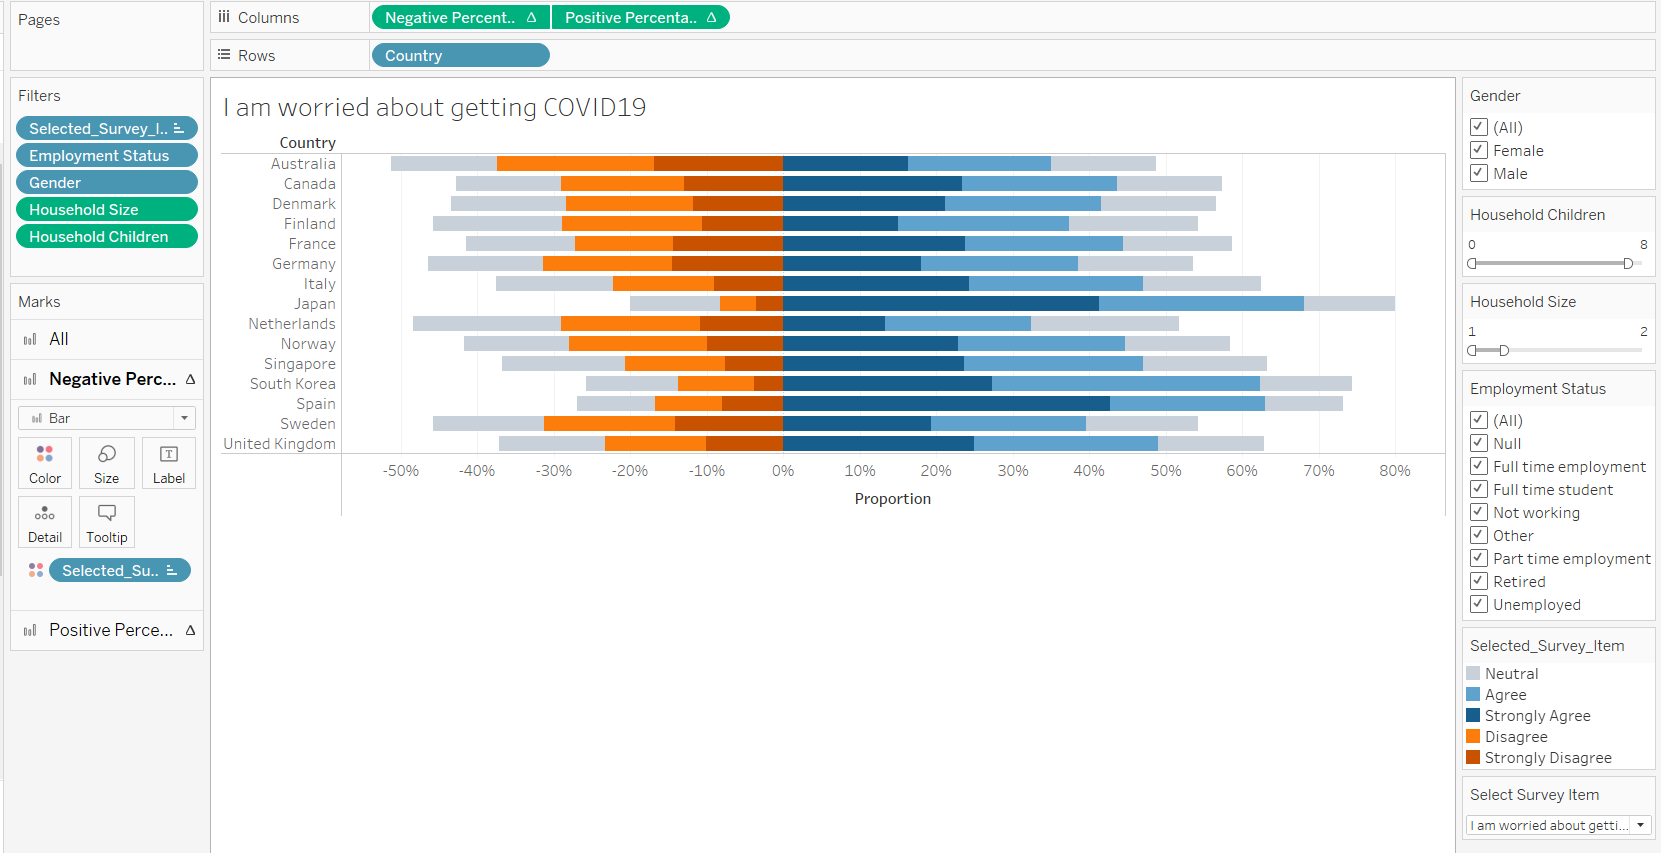
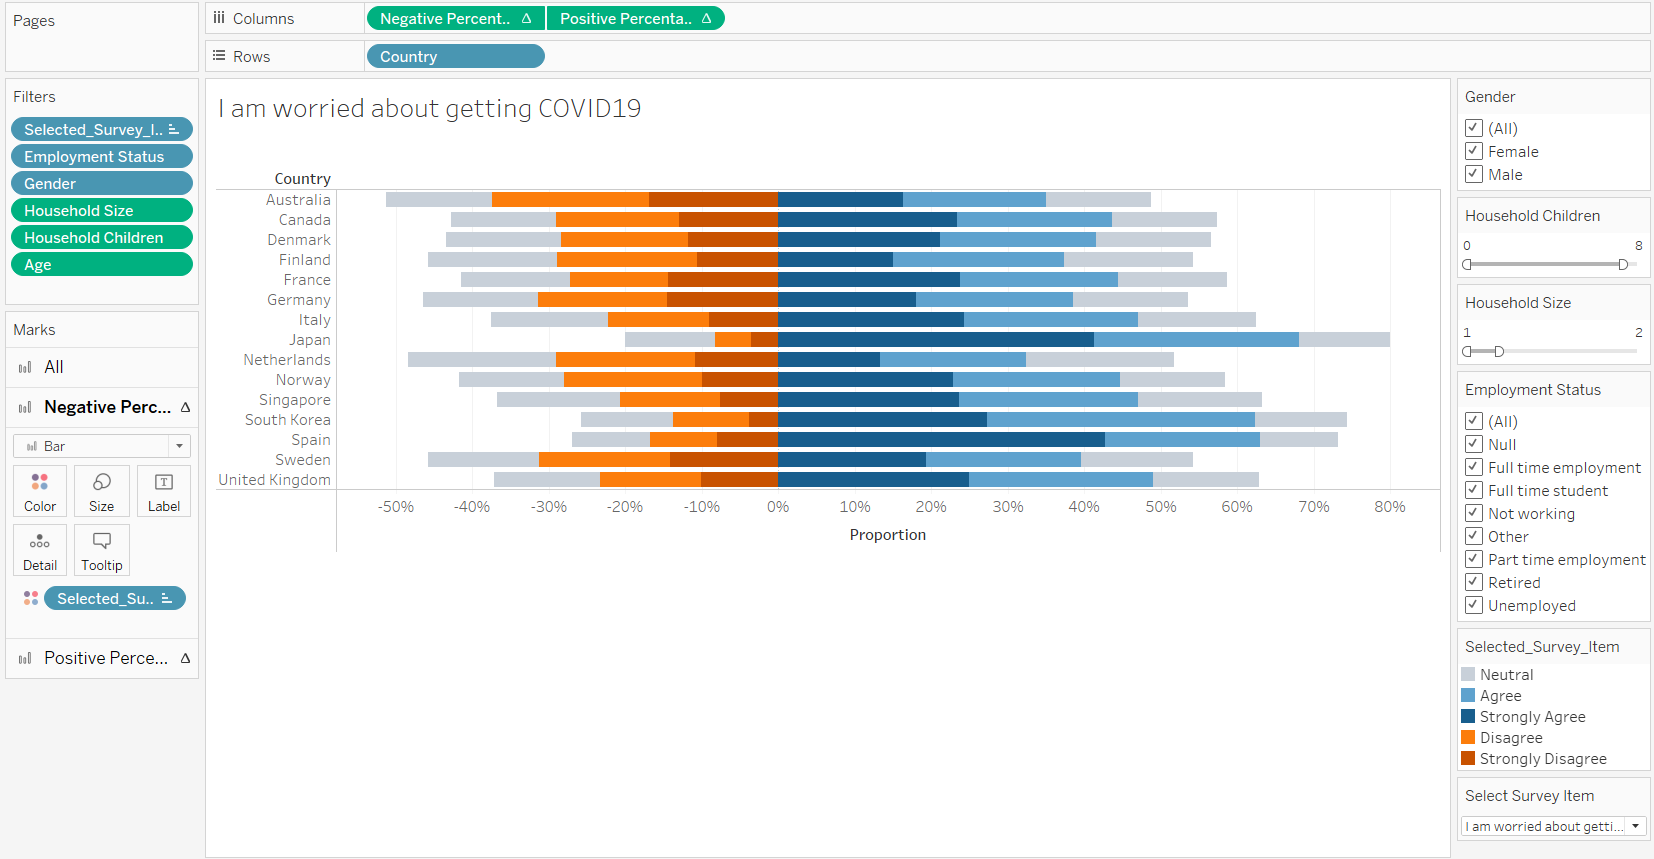
4.3. Dot Plot with Error Bars

Changed region(s): [[0.0, 0.0914, 1.0, 0.9754], [0.0925, 0.0, 1.0, 0.0914], [0.0, 0.0, 0.0617, 0.0305]]

diff --git a/_posts/2021-02-12-dataviz-makeover-2/dataviz-makeover-2.html b/_posts/2021-02-12-dataviz-makeover-2/dataviz-makeover-2.html
@@ -117,6 +117,7 @@ code span.wa { color: #5e5e5e; font-style: italic; } /* Warning */
   <meta name="citation_reference" content="citation_title=Seven different ways to display likert scale data;citation_publication_date=2020;citation_author=Alana Pirrone"/>
   <meta name="citation_reference" content="citation_title=Rethinking the divergent stacked bar chart - placing the stronger views in the center;citation_publication_date=2020;citation_author=Steve Wexler"/>
   <meta name="citation_reference" content="citation_title=5 tips on designing colorblind-friendly visualizations;citation_author=Jeffrey Shaffer"/>
+  <meta name="citation_reference" content="citation_title=Sorting by field is unavailable for data blended measures: Tableau software;citation_publisher=Tableau;citation_author= Tableau"/>
   <!--radix_placeholder_rmarkdown_metadata-->
   
   <script type="text/json" id="radix-rmarkdown-metadata">
@@ -125,7 +126,7 @@ code span.wa { color: #5e5e5e; font-style: italic; } /* Warning */
   <!--/radix_placeholder_rmarkdown_metadata-->
   
   <script type="text/json" id="radix-resource-manifest">
-  {"type":"character","attributes":{},"value":["biblio.bibtex","biblio.yaml","dataviz-makeover-2_files/anchor-4.2.2/anchor.min.js","dataviz-makeover-2_files/bowser-1.9.3/bowser.min.js","dataviz-makeover-2_files/distill-2.2.21/template.v2.js","dataviz-makeover-2_files/jquery-1.11.3/jquery.min.js","dataviz-makeover-2_files/popper-2.6.0/popper.min.js","dataviz-makeover-2_files/tippy-6.2.7/tippy-bundle.umd.min.js","dataviz-makeover-2_files/tippy-6.2.7/tippy-light-border.css","dataviz-makeover-2_files/tippy-6.2.7/tippy.css","dataviz-makeover-2_files/tippy-6.2.7/tippy.umd.min.js","dataviz-makeover-2_files/webcomponents-2.0.0/webcomponents.js","images/2. Original Visualisation.png","images/3. Alternative Visualisation Design.jpeg","images/4.1. Add New Union.png","images/4.1. Change Data Type.png","images/4.1. Connect to Data.png","images/4.1. Custom Split.png","images/4.1. Describe Field.png","images/4.1. Edit Aliases.png","images/4.1. Export Full Data.png","images/4.1. Go to Worksheet.png","images/4.1. Hide Unused Columns.png","images/4.1. Include all csv files.png","images/4.1. Remove table.png","images/4.1. View Data.png","images/4.2. Add Numeric Filter.png","images/4.2. Add String Filter.png","images/4.2. Compute Using Selected_Survey_Item.png","images/4.2. Conver to Measure.png","images/4.2. Convert to Dimension.png","images/4.2. Convert to Measure.png","images/4.2. Count Negative Formula.png","images/4.2. Create Parameter.png","images/4.2. Diverging Stacked Bar Chart.png","images/4.2. Dual Axis.png","images/4.2. Edit Axis Number Format.png","images/4.2. Edit Axis Title.png","images/4.2. Edit Colors.png","images/4.2. Edit Colour Legend.png","images/4.2. Edit Legend Alias.png","images/4.2. Edit Title.png","images/4.2. Edit Tooltip.png","images/4.2. Exclude Nulls.png","images/4.2. Format Tick Mark Labels.png","images/4.2. Format Tooltip Percentage.png","images/4.2. Gantt Percent Formula.png","images/4.2. Gantt Start Formula.png","images/4.2. Number of Records Formula.png","images/4.2. Percentage Formula.png","images/4.2. Reorder Colours.png","images/4.2. Rows and Columns Negative Positive.png","images/4.2. Rows and Columns.png","images/4.2. Select Colour for Selected Survey Item.png","images/4.2. Selected Survey Item Formula.png","images/4.2. Show Parameter.png","images/4.2. Sort Selected Survey Item in Descending Order.png","images/4.2. Total Count Formula.png","images/4.2. Total Count Negative Formula.png","images/4.3. Add Confidence Interval.png","images/4.3. Add Path and Colour.png","images/4.3. Add Prop and Convert to Discrete.png","images/4.3. Add Title.png","images/4.3. Align Country Right.png","images/4.3. Convert Rank to Discrete.png","images/4.3. Convert to Dual Axis.png","images/4.3. Count Selected Response Formula.png","images/4.3. Create Paramenter - Response.png","images/4.3. Edit Tooltip.png","images/4.3. Filter Selected Survey Item.png","images/4.3. Fix Axis.png","images/4.3. Format Axis Title.png","images/4.3. Prop 95% Lower Limit.png","images/4.3. Prop 95% Upper Limit.png","images/4.3. Prop 99% Lower Limit.png","images/4.3. Prop 99% Upper Limit.png","images/4.3. Prop Formula.png","images/4.3. Proportion Circle Marks.png","images/4.3. Rank Formula.png","images/4.3. Remove Column Divider.png","images/4.3. Remove Gridline.png","images/4.3. Remove Header.png","images/4.3. Select Colours.png","images/4.3. Show Error Bars.png","images/4.3. Sort by Measure Values.png","images/4.3. Sort Formula.png","images/4.3. Sort Prop Descending.png","images/4.3. Synchronize Axis.png","images/4A690D00-8900-4C33-BB57-340125992E60.jpeg"]}
+  {"type":"character","attributes":{},"value":["biblio.bibtex","biblio.yaml","dataviz-makeover-2_files/anchor-4.2.2/anchor.min.js","dataviz-makeover-2_files/bowser-1.9.3/bowser.min.js","dataviz-makeover-2_files/distill-2.2.21/template.v2.js","dataviz-makeover-2_files/jquery-1.11.3/jquery.min.js","dataviz-makeover-2_files/popper-2.6.0/popper.min.js","dataviz-makeover-2_files/tippy-6.2.7/tippy-bundle.umd.min.js","dataviz-makeover-2_files/tippy-6.2.7/tippy-light-border.css","dataviz-makeover-2_files/tippy-6.2.7/tippy.css","dataviz-makeover-2_files/tippy-6.2.7/tippy.umd.min.js","dataviz-makeover-2_files/webcomponents-2.0.0/webcomponents.js","images/2. Original Visualisation.png","images/3. Alternative Visualisation Design.jpeg","images/4.1. Add New Union.png","images/4.1. Change Data Type.png","images/4.1. Connect to Data.png","images/4.1. Custom Split.png","images/4.1. Describe Field.png","images/4.1. Edit Aliases.png","images/4.1. Export Full Data.png","images/4.1. Go to Worksheet.png","images/4.1. Hide Unused Columns.png","images/4.1. Include all csv files.png","images/4.1. Remove table.png","images/4.1. View Data.png","images/4.2. Add Numeric Filter.png","images/4.2. Add String Filter.png","images/4.2. Compute Using Selected_Survey_Item.png","images/4.2. Conver to Measure.png","images/4.2. Convert to Dimension.png","images/4.2. Convert to Measure.png","images/4.2. Count Negative Formula.png","images/4.2. Create Parameter.png","images/4.2. Diverging Stacked Bar Chart.png","images/4.2. Dual Axis.png","images/4.2. Edit Axis Number Format.png","images/4.2. Edit Axis Title.png","images/4.2. Edit Colors.png","images/4.2. Edit Colour Legend.png","images/4.2. Edit Legend Alias.png","images/4.2. Edit Title.png","images/4.2. Edit Tooltip.png","images/4.2. Exclude Nulls.png","images/4.2. Format Tick Mark Labels.png","images/4.2. Format Tooltip Percentage.png","images/4.2. Gantt Percent Formula.png","images/4.2. Gantt Start Formula.png","images/4.2. Number of Records Formula.png","images/4.2. Percentage Formula.png","images/4.2. Reorder Colours.png","images/4.2. Rows and Columns Negative Positive.png","images/4.2. Rows and Columns.png","images/4.2. Select Colour for Selected Survey Item.png","images/4.2. Selected Survey Item Formula.png","images/4.2. Show Parameter.png","images/4.2. Sort Selected Survey Item in Descending Order.png","images/4.2. Total Count Formula.png","images/4.2. Total Count Negative Formula.png","images/4.3. Add Colour and Path.png","images/4.3. Add Confidence Interval.png","images/4.3. Add Label.png","images/4.3. Add Measure Values.png","images/4.3. Add Path and Colour.png","images/4.3. Add Prop and Convert to Discrete.png","images/4.3. Add Title.png","images/4.3. Align Country Right.png","images/4.3. Convert Rank to Discrete.png","images/4.3. Convert to Dual Axis.png","images/4.3. Count Selected Response Formula.png","images/4.3. Create Paramenter - Response.png","images/4.3. Dot Plot with Error Bars.png","images/4.3. Dual Axis.png","images/4.3. Edit Title.png","images/4.3. Edit Tooltip.png","images/4.3. Filter Selected Survey Item.png","images/4.3. First Cut.png","images/4.3. Fix Axis.png","images/4.3. Format Axis Title.png","images/4.3. Prop 95% Lower Limit.png","images/4.3. Prop 95% Upper Limit.png","images/4.3. Prop 99% Lower Limit.png","images/4.3. Prop 99% Upper Limit.png","images/4.3. Prop Formula.png","images/4.3. Proportion Circle Marks.png","images/4.3. Rank Formula.png","images/4.3. Remove Column Divider.png","images/4.3. Remove Gridline.png","images/4.3. Remove Header.png","images/4.3. Select Colours.png","images/4.3. Show Error Bars.png","images/4.3. Sort by Measure Values.png","images/4.3. Sort Formula.png","images/4.3. Sort Prop Descending.png","images/4.3. Synchronize Axis.png","images/4A690D00-8900-4C33-BB57-340125992E60.jpeg"]}
   </script>
   <!--radix_placeholder_navigation_in_header-->
   <!--/radix_placeholder_navigation_in_header-->
@@ -1497,8 +1498,10 @@ code span.wa { color: #5e5e5e; font-style: italic; } /* Warning */
 </ul></li>
 <li><a href="#alternative-graphical-representation">3. Alternative Graphical Representation</a></li>
 <li><a href="#step-by-step-description">4. Step-by-Step Description</a><ul>
-<li><a href="#data-preparation">4.1 Data Preparation</a></li>
+<li><a href="#data-preparation">4.1. Data Preparation</a></li>
 <li><a href="#diverging-stacked-bar-chart">4.2. Diverging Stacked Bar Chart</a></li>
+<li><a href="#dot-plot-with-error-bars">4.3. Dot Plot with Error Bars</a></li>
+<li><a href="#dashboard">4.4. Dashboard</a></li>
 </ul></li>
 </ul>
 </nav>
@@ -1575,7 +1578,7 @@ code span.wa { color: #5e5e5e; font-style: italic; } /* Warning */
 </figure>
 <h1 id="step-by-step-description">4. Step-by-Step Description</h1>
 <p>In this section, we are going through the steps to recreate the Data Visualisation Makeover shown in Figure 3 using Tableau. Tableau Desktop has a 14-day trial that can be downloaded <a href="https://www.tableau.com/products/desktop/download">here</a>.</p>
-<h2 id="data-preparation">4.1 Data Preparation</h2>
+<h2 id="data-preparation">4.1. Data Preparation</h2>
 <h3 id="data-source">Data Source</h3>
 <p>The visualisation is based on the publicly available <a href="https://github.com/YouGov-Data/covid-19-tracker">Imperial College London YouGov Covid 19 Behaviour Tracker Data Hub</a>, which aims to get insights or how people respond to COVID-19. They also publish a <a href="https://ichpanalytics.imperialcollegehealthpartners.com/t/BDAU/views/YouGovICLCOVID-19BehaviourTracker/Homepage">dashboard</a> to visualise the data.</p>
 <h3 id="data-cleaning">Data Cleaning</h3>
@@ -1712,10 +1715,11 @@ code span.wa { color: #5e5e5e; font-style: italic; } /* Warning */
 <p>If [Selected_Survey_Item] &lt; 3 then 1 elseif [Selected_Survey_Item] = 3 then 0.5 else 0 END</p></li>
 <li><p><strong>Count Negative</strong>:</p>
 <p>If [Selected_Survey_Item] &gt; 3 then -1 elseif [Selected_Survey_Item] = 3 then -0.5 else 0 END</p></li>
+<li><p><strong>Total Count</strong>: TOTAL(SUM([Number of Records]))</p></li>
 <li><p><strong>Positive Percentage</strong>:</p>
-<p>SUM([Count Positive]) / TOTAL(SUM([Number of Records]))</p></li>
+<p>SUM([Count Positive]) / [Total Count]</p></li>
 <li><p><strong>Negative Percentage</strong>:</p>
-<p>SUM([Count Negative]) / TOTAL(SUM([Number of Records]))</p></li>
+<p>SUM([Count Negative]) / [Total Count]</p></li>
 </ol>
 <p>We create the visualisation by adding fields to the rows and columns shelves, as well as the filters and marks cards. Figure 18 shows the first cut of the visualisation.</p>
 <figure>
@@ -1798,7 +1802,7 @@ code span.wa { color: #5e5e5e; font-style: italic; } /* Warning */
 <li>We can show the parameter to check. Go to the data pane, <strong>right-click</strong> on the <strong>Select Survey Item</strong> &gt; <strong>Show Parameter</strong>. We can toggle the different survey items we want to see and the visualisation will change accordingly.</li>
 </ul>
 <h4 id="filters">Filters</h4>
-<p>Having filters allow the users to interact with the visualisation and tailor it according to their needs. We will use Employment Status, Gender, Household Children and Household Size fields as the filters.</p>
+<p>Having filters allow the users to interact with the visualisation and tailor it according to their needs. We will use Employment Status, Gender, Age, Household Children and Household Size fields as the filters.</p>
 <figure>
 <img src="images/4.2.%20Add%20String%20Filter.png" alt="" /><figcaption>Figure 27. Add String Filters</figcaption>
 </figure>
@@ -1817,12 +1821,127 @@ code span.wa { color: #5e5e5e; font-style: italic; } /* Warning */
 <li><strong>All values</strong> &gt; <strong>Next</strong>.</li>
 <li>Check <strong>include null values</strong> &gt; <strong>OK</strong>. This might dilute the information because the nulls will still be included when we want to examine by a certain household size, but filtering out the nulls can cause us to lose a significant subset of data. For this trade-off, I chose to include the nulls.</li>
 <li><strong>Right-click</strong> on the <strong>Household Size</strong> pill in the filter card &gt; <strong>Show Filter</strong>.</li>
-<li><strong>Repeat</strong> for <strong>Household Children</strong>.</li>
+<li><strong>Repeat</strong> for <strong>Household Children</strong> and <strong>Age</strong>.</li>
 </ul>
 <figure>
 <img src="images/4.2.%20Diverging%20Stacked%20Bar%20Chart.png" alt="" /><figcaption>Figure 29. Diverging Stacked Bar Chart</figcaption>
 </figure>
 <p>One down, one more to go!</p>
+<h2 id="dot-plot-with-error-bars">4.3. Dot Plot with Error Bars</h2>
+<h3 id="creating-visualisation-1">Creating Visualisation</h3>
+<p>The dot plot will visualise the selected response (e.g. Strongly Agree) for the selected survey item in the diverging stacked bar chart. We also need to repeat the steps to create parameters and calculated fields, but with some adjustments.</p>
+<figure>
+<img src="images/4.3.%20Create%20Paramenter%20-%20Response.png" alt="" /><figcaption>Figure 29. Create Parameter for Response</figcaption>
+</figure>
+<ul>
+<li>Use <strong>integer data type</strong> because the survey response values will be in the range of 1 to 5. We will match the value chosen from the parameter with the Selected_Survey_Item value.</li>
+<li>Enter number 1 to 5 for value and the textual descriptions in ‘Display As’ column.</li>
+</ul>
+<p>The formulas we need to add for the dot plot are:</p>
+<ol start="8" class="example" type="1">
+<li><p><strong>Count Selected Response</strong>:</p>
+<p>If [Selected_Survey_Item]=[Select Response] Then 1 else 0 End</p></li>
+<li><p><strong>Prop</strong>:</p>
+<p>TOTAL(SUM([Count Selected Response]))/ [Total Count]</p></li>
+<li><p><strong>Prop 95% Lower Limit%</strong>:</p>
+<p>[Prop] - 1.959964 * sqrt([Prop]*(1-[Prop])/[Total Count])</p></li>
+<li><p><strong>Prop 95% Upper Limit%</strong>:</p>
+<p>[Prop] + 1.959964 * sqrt([Prop]*(1-[Prop])/[Total Count])</p></li>
+<li><p><strong>Prop 99% Lower Limit%</strong>:</p>
+<p>[Prop] - 2.575829 * sqrt([Prop]*(1-[Prop])/[Total Count])</p></li>
+<li><p><strong>Prop 99% Upper Limit%</strong>:</p>
+<p>[Prop] + 2.575829 * sqrt([Prop]*(1-[Prop])/[Total Count])</p></li>
+</ol>
+<h4 id="dot-plot">Dot Plot</h4>
+<p>We are going to start by creating the dots for the proportion from the sample.</p>
+<figure>
+<img src="images/4.3.%20First%20Cut.png" alt="" /><figcaption>Figure 30. First Cut of the Dot Plot</figcaption>
+</figure>
+<ul>
+<li>Put <strong>Prop</strong> in the **Columns.</li>
+<li>Put <strong>Country</strong> for the <strong>Rows</strong>.</li>
+<li><strong>Filter out</strong> all <strong>null</strong> values in the <strong>Selected Survey Item</strong>.</li>
+<li>Change mark from Automatic to <strong>Circle</strong>.</li>
+<li>Adjust the <strong>size</strong> of the dots to your liking.</li>
+<li><strong>Show Parameter</strong> so we can toggle and check if it is working properly.</li>
+</ul>
+<p>If the dots are in the same value for all countries, make sure that <strong>Prop</strong> is <strong>computed using cell</strong>.</p>
+<p>I found a neat trick that we can select <strong>Fit Height</strong> above the column shelf to automatically adjust the height of the chart.</p>
+<figure>
+<img src="images/4.3.%20Select%20Colours.png" alt="" /><figcaption>Figure 31. Edit Colour</figcaption>
+</figure>
+<ul>
+<li><strong>Drag Select Response</strong> to the <strong>Color Marks Card</strong>.</li>
+<li><strong>Double-click</strong> on the colour legend</li>
+<li>Use <strong>Orange-Blue Diverging</strong> palette</li>
+<li>Create a <strong>5 steps reversed</strong> palette. We need to reverse the colours because 1 indicates a positive opinion and we want it to be represented with blue colour. By default it will use red shades for the lower value because usually the lower values are negative and we want them to be red.</li>
+<li>As we only select one response at a time, we need to create the range of values manually. Click <strong>Advanced</strong> &gt; specify <strong>Start</strong> and <strong>End</strong>.</li>
+</ul>
+<p>You can play around and see how the colour of the dots changes according to the selected response.</p>
+<figure>
+<img src="images/4.3.%20Add%20Label.png" alt="" /><figcaption>Figure 32. Add Labels</figcaption>
+</figure>
+<ul>
+<li>Add a label value for each of the dots by <strong>dragging Prop</strong> to the <strong>Label Marks Card</strong>.</li>
+<li><strong>Double-click</strong> on the <strong>Label Marks Card</strong> &gt; Adjust <strong>Font</strong> and <strong>Alignment</strong>. The reason why Font appears blank is because it shows the preview of the text, and I chose white colour so we cannot see it. I used Tableau Bold 8pt.</li>
+<li>Format the number appearance by doing <strong>right click on the labels</strong> &gt; <strong>Format…</strong></li>
+<li>Change the number format for both <strong>Axis</strong> and <strong>Pane</strong> to <strong>Percentage</strong> with <strong>0 decimal places</strong>.</li>
+</ul>
+<p>We can adjust the circle size again if we need to, but try not to make it very big, otherwise the circles will get cropped.</p>
+<h4 id="error-bars">Error Bars</h4>
+<figure>
+<img src="images/4.3.%20Add%20Measure%20Values.png" alt="" /><figcaption>Figure 33. Add Measure Values</figcaption>
+</figure>
+<ul>
+<li>Add <strong>Measure Values</strong> to the <strong>Columns</strong>.</li>
+<li>Remove away all fields from the <strong>Measure Values</strong> shelf, only retain <strong>Prop 95% Lower Limit</strong>, <strong>Prop 95% Upper Limit</strong>,<strong>Prop 99% Lower Limit</strong>, <strong>Prop 99% Upper Limit</strong>.</li>
+<li>Click the <strong>Measure Values Marks Card</strong> and <strong>remove all fields</strong>.</li>
+<li>Change the <strong>Marks Type</strong> to <strong>Line</strong>.</li>
+</ul>
+<p>Why is the line going zig-zag like a drunk driver? Because we have not specified the path for the lines.</p>
+<figure>
+<img src="images/4.3.%20Add%20Colour%20and%20Path.png" alt="" /><figcaption>Figure 34. Add Colour and Path</figcaption>
+</figure>
+<ul>
+<li><strong>Drag Measure Names</strong> to <strong>Colour</strong> and <strong>Path</strong>.</li>
+<li>Tableau draw the line one on top of the other with respect to the order in the Measure Values. We need to reorder it so the 95% confidence interval (CI) will be drawn on top of 99% CI, otherwise we will not be able to see it. <strong>Reorder the fields in Measure Values</strong> so that 99% is above 95%.</li>
+<li><strong>Change the colour</strong> by <strong>double-clicking</strong> on the legend. Use a lighter shade for 99% CI and a darker shade for 95% CI.</li>
+</ul>
+<figure>
+<img src="images/4.3.%20Dual%20Axis.png" alt="" /><figcaption>Figure 35. Dual Axis</figcaption>
+</figure>
+<p>Combine the circle and the confidence interval by using a dual axis.</p>
+<ul>
+<li><strong>Right-click</strong> on the <strong>Prop</strong> pill on the Columns shelf &gt; <strong>Dual Axis</strong>.</li>
+<li>Ensure Measure Values comes before Prop so the circle will be on top. If it is not, swap the order.</li>
+<li>To tidy up the visualisation, <strong>edit the format</strong> of the axis scale to show <strong>percentage</strong> and <strong>hide the scale on the top</strong>.</li>
+</ul>
+<h4 id="sort">Sort</h4>
+<p>Tableau does not allow sorting using a blended measure, so we need to use a workaround <span class="citation" data-cites="tableaukb">(Tableau, <a href="#ref-tableaukb" role="doc-biblioref">n.d.</a>)</span>. We want to sort according to the order of Prop, so we will use it in the Rows shelf and hide it away.</p>
+<figure>
+<img src="images/4.3.%20Add%20Prop%20and%20Convert%20to%20Discrete.png" alt="" /><figcaption>Figure 36. Add Prop to Columns and Convert to Discrete</figcaption>
+</figure>
+<ul>
+<li><strong>Drag Prop</strong> to <strong>Rows</strong> shelf &gt; <strong>right-click</strong> &gt; <strong>Discrete</strong></li>
+</ul>
+<figure>
+<img src="images/4.3.%20Sort%20Prop%20Descending.png" alt="" /><figcaption>Figure 37. Sort by Prop</figcaption>
+</figure>
+<ul>
+<li><strong>Move Prop</strong> pill to before <strong>Country</strong>. Now it will automatically sort the values based on Prop.</li>
+<li><strong>Right-click</strong> on the <strong>Prop header</strong> &gt; <strong>Sort Descending</strong>.</li>
+<li><strong>Uncheck Show Header</strong> for <strong>Prop</strong>.</li>
+</ul>
+<figure>
+<img src="images/4.3.%20Edit%20Title.png" alt="" /><figcaption>Figure 38. Edit Title for Dot Plot with Error Bar</figcaption>
+</figure>
+<ul>
+<li>Last but not least, <strong>edit the title</strong> so it will change dynamically according to the parameter selected by the users.</li>
+</ul>
+<figure>
+<img src="images/4.3.%20Dot%20Plot%20with%20Error%20Bars.png" alt="" /><figcaption>Figure 39. Dot Plot with Error Bars</figcaption>
+</figure>
+<h2 id="dashboard">4.4. Dashboard</h2>
 <div class="sourceCode" id="cb1"><pre class="sourceCode r distill-force-highlighting-css"><code class="sourceCode r"></code></pre></div>
 <div id="refs" class="references" role="doc-bibliography">
 <div id="ref-charumilind_craven_lamb_sabow_wilson_2021">
@@ -1839,6 +1958,9 @@ code span.wa { color: #5e5e5e; font-style: italic; } /* Warning */
 </div>
 <div id="ref-Stone2006ChoosingCF">
 <p>Stone, M. 2006. “Choosing Colors for Data Visualization.” <em>Perceptual Edge</em>. <a href="http://www.perceptualedge.com/articles/b-eye/choosing_colors.pdf">http://www.perceptualedge.com/articles/b-eye/choosing_colors.pdf</a>.</p>
+</div>
+<div id="ref-tableaukb">
+<p>Tableau. n.d. “Sorting by Field Is Unavailable for Data Blended Measures: Tableau Software.” <em>Sorting by Field Is Unavailable for Data Blended Measures | Tableau Software</em>. Tableau. <a href="https://kb.tableau.com/articles/issue/sorting-by-field-unavailable-for-data-blended-measures">https://kb.tableau.com/articles/issue/sorting-by-field-unavailable-for-data-blended-measures</a>.</p>
 </div>
 <div id="ref-torres_2016">
 <p>Torres, Nicole. 2016. “Why It’s so Hard for Us to Visualize Uncertainty.” <em>Harvard Business Review</em>. <a href="https://hbr.org/2016/11/why-its-so-hard-for-us-to-visualize-uncertainty">https://hbr.org/2016/11/why-its-so-hard-for-us-to-visualize-uncertainty</a>.</p>
